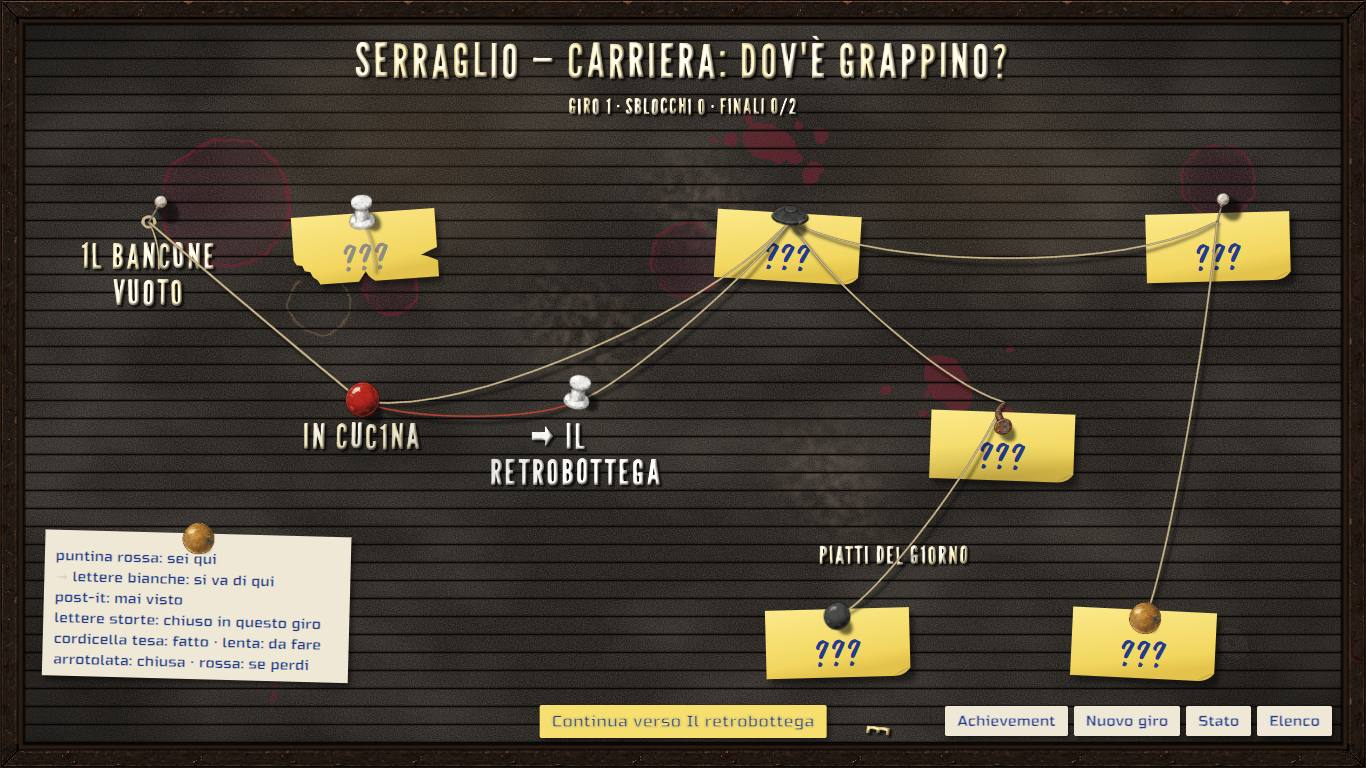
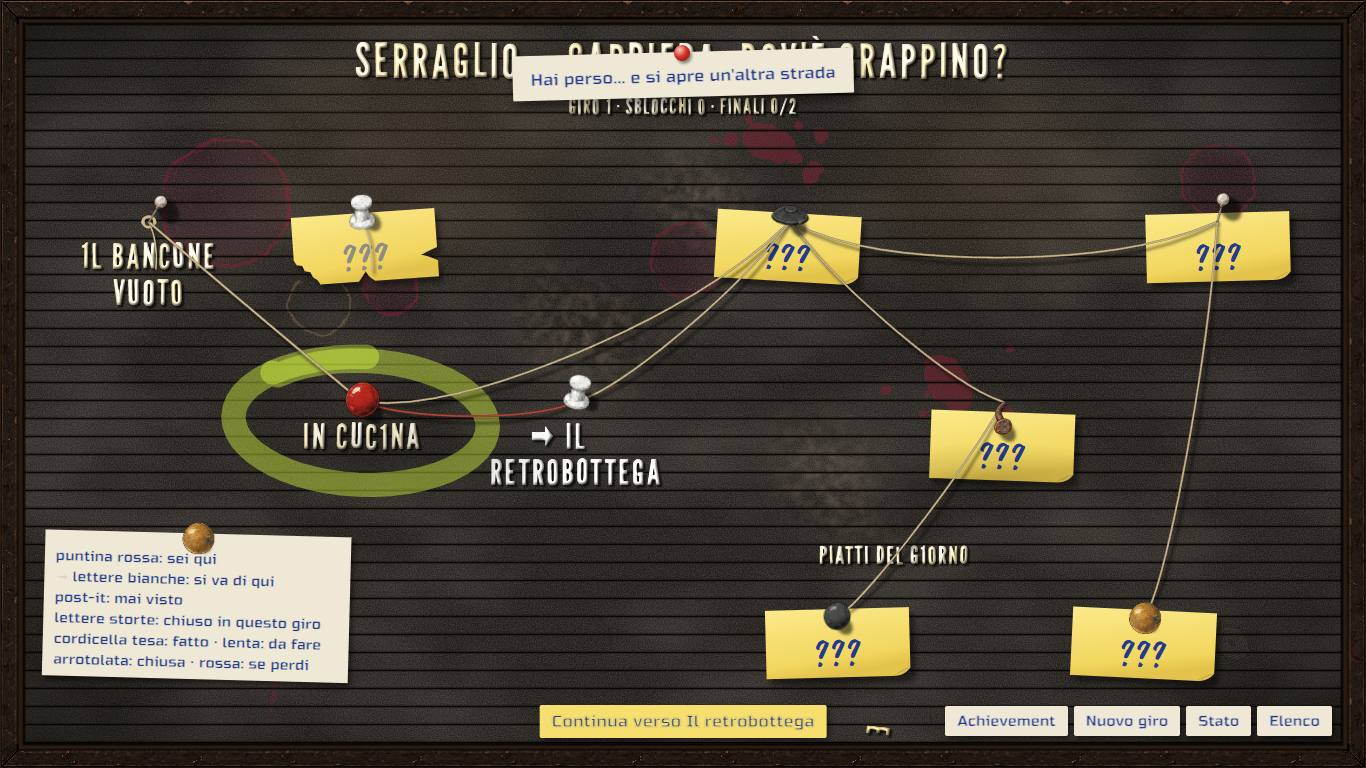
Careers prototype: the test career's back room is secret too
- Per the direction's decision, the test career follows the rule
  "defeats are a secret": node E (the back room), reached only by losing
  in C, is now [Nodo: segreto], so the graph check's warning goes away.
  A preamble line in storie/prova.md says so.
- Tests updated: no warnings for the test career, E among its secrets,
  hidden on the map until the defeat opens it.
- Captures: the board check after the defeat in C now expects E to
  appear without a falling post-it; only the two captures that change
  (o/v-15) are redone.

diff --git a/prototipi/carriere/tests/grafo.test.ts b/prototipi/carriere/tests/grafo.test.ts
@@ -12,13 +12,11 @@ const errori = (md: string, tetto?: number) => controllaGrafo(carriera(md, true)
 test('tutorial e prova passano il controllo del grafo', () => {
   for (const c of [tutorial(), prova()]) {
     const r = controllaGrafo(c);
-    // Mockup della principale 0.3.2: la regola «le sconfitte sono un segreto» è nuova; la prova (Fase B, risposta P3) ha il retrobottega
-    // a cui si arriva solo perdendo in C, e non è segreto. Il controllo lo dice con un avviso; se farlo segreto lo decide la regia.
-    const attesi = c.id === 'prova' ? ['il nodo nodo-e si raggiunge solo perdendo ma non è segreto'] : [];
-    assert.deepEqual([r.errori, r.avvisi], [[], attesi], c.id);
+    // Dalla regola «le sconfitte sono un segreto» (0.3.2) il retrobottega della prova, a cui si arriva solo perdendo in C, è segreto.
+    assert.deepEqual([r.errori, r.avvisi], [[], []], c.id);
     assert.equal(r.raggiunti.length, c.nodi.length);
   }
-  assert.deepEqual(controllaGrafo(prova()).segreti, {'nodo-f': ['nodo-d']});
+  assert.deepEqual(controllaGrafo(prova()).segreti, {'nodo-e': ['nodo-c'], 'nodo-f': ['nodo-d']});
 });
 
 test('vicolo cieco: un ciclo senza uscita verso una fine', () => {
@@ -105,9 +103,9 @@ test('mappa: disposizione a colonne e stati dei nodi lungo due giri', () => {
   let s = nuovoGiro(c, nuovoAccount());
   const stato = () => Object.fromEntries(Object.entries(statiMappa(c, s)).map(([k, v]) => [k, v.stato + (v.noto ? '' : '?')]));
   const fini = {'fine:grappino-e-tornato': 'aperto?', 'fine:grappino-scappa-di-nuovo': 'aperto?'};
-  assert.deepEqual(stato(), {...fini, 'nodo-a': 'disponibile?', 'nodo-b': 'aperto?', 'nodo-c': 'aperto?', 'nodo-d': 'aperto?', 'nodo-e': 'aperto?', 'nodo-f': 'nascosto?', 'nodo-g': 'aperto?', 'nodo-h': 'aperto?'});
+  assert.deepEqual(stato(), {...fini, 'nodo-a': 'disponibile?', 'nodo-b': 'aperto?', 'nodo-c': 'aperto?', 'nodo-d': 'aperto?', 'nodo-e': 'nascosto?', 'nodo-f': 'nascosto?', 'nodo-g': 'aperto?', 'nodo-h': 'aperto?'});
   s = scegli(c, salta(c, entra(c, s, 'nodo-a').stato).stato, 0).stato;
-  assert.deepEqual(stato(), {...fini, 'nodo-a': 'fatto', 'nodo-b': 'disponibile?', 'nodo-c': 'escluso?', 'nodo-d': 'aperto?', 'nodo-e': 'escluso?', 'nodo-f': 'nascosto?', 'nodo-g': 'aperto?', 'nodo-h': 'aperto?'});
+  assert.deepEqual(stato(), {...fini, 'nodo-a': 'fatto', 'nodo-b': 'disponibile?', 'nodo-c': 'escluso?', 'nodo-d': 'aperto?', 'nodo-e': 'nascosto?', 'nodo-f': 'nascosto?', 'nodo-g': 'aperto?', 'nodo-h': 'aperto?'});
   // Al giro dopo, i nodi visti hanno il titolo; un segreto visto resta sulla mappa.
   s = nuovoGiro(c, {...s.account, esplorati: [...s.account.esplorati, 'nodo-f']}, s.giro);
   assert.deepEqual(stato()['nodo-a'], 'disponibile');

diff --git a/prototipi/carriere/storie/prova.md b/prototipi/carriere/storie/prova.md
@@ -6,6 +6,8 @@
 > [proposta della Fase A](../../../docs/design/carriere/prototipo-fase-a.md#la-mini-carriera-di-prova). In Fase B, dopo la risposta P7
 > del proprietario («sì, una seconda fine»), un secondo finale: il nodo H, «Grappino scappa di nuovo», con un terzo achievement per chi
 > vede tutti e due i finali ([rapporto della Fase B](../../../docs/design/carriere/prototipo-fase-b.md)).
+> Dal 14 novembre 2026 il retrobottega (nodo E), a cui si arriva solo perdendo in C, è segreto, come chiede la regola «le sconfitte
+> sono un segreto» della [campagna principale](../../../docs/design/carriere/principale.md#le-sconfitte-che-aprono-un-ramo).
 
 [Carriera: prova; obbligatori: starter-piera]
 
@@ -81,6 +83,8 @@
 - con Mara, che ha una consegna proprio lì fuori → Nodo H
 
 ## Nodo E — Il retrobottega
+
+[Nodo: segreto]
 
 [Sfondo: S2 disordine, il retro del bar.]
 
